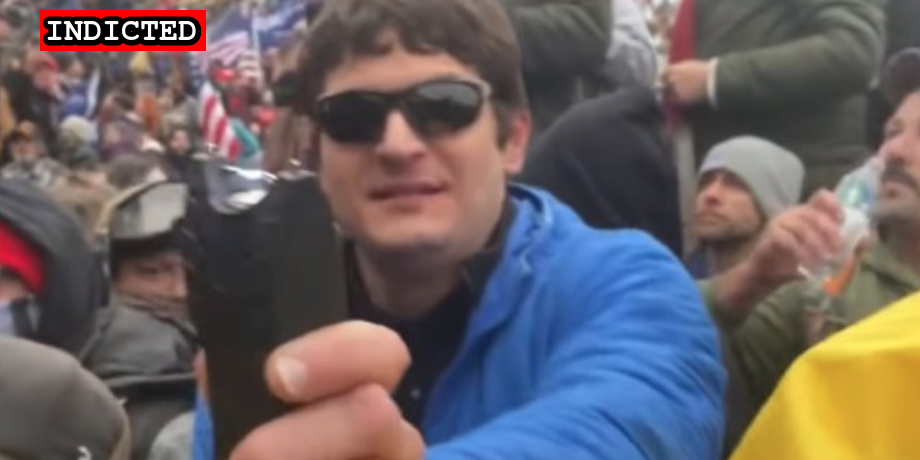
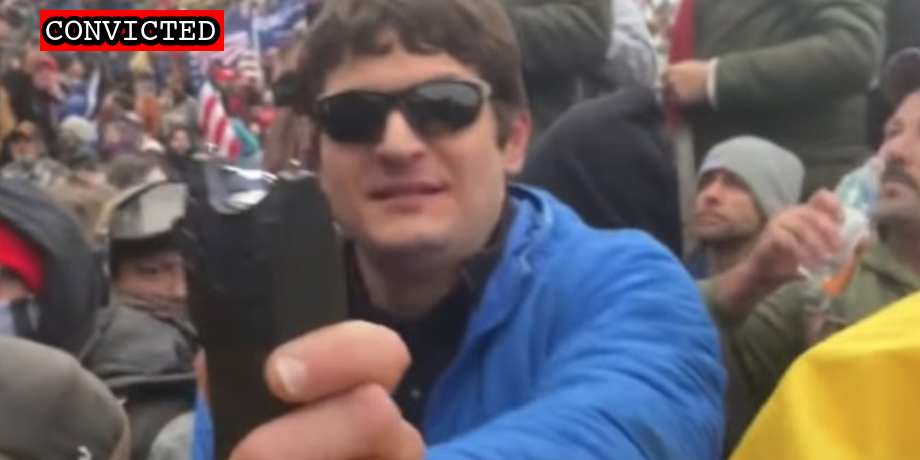
Sentencing and convictions

Changed region(s): [[0.0304, 0.0, 0.2435, 0.1217]]

diff --git a/docs/_suspects/daniel-egtvedt.md b/docs/_suspects/daniel-egtvedt.md
@@ -4,13 +4,13 @@ lastName: Egtvedt
 hashtag: TreasonIsTiring
 aka:
 residence: Maryland
-status: Convicted
+status: Sentenced
 date: 2021-02-09
 charged: 2021-02-09
 indicted: 2021-03-03
 convicted: 2022-12-16
 acquitted:
-sentenced:
+sentenced: 2023-03-16
 dismissed:
 deceased:
 plea_hearing:
@@ -40,45 +40,49 @@ caseNumber: 21-cr-0177
 caseName: USA v. EGTVEDT
 judge: Christopher R. Cooper
 videos:
-- title: Egtvedt - BWC and CCTV of Incident.mp4 (0:08:43)
-  url: https://propublica-data-j6cases-videos.s3.us-east-1.amazonaws.com/487ec340ce2a013960702cde48001122.mp4
-- title: Egtvedt - Interviews.mp4 (0:02:11)
-  url: https://propublica-data-j6cases-videos.s3.us-east-1.amazonaws.com/359f6a10ce2a013960702cde48001122.mp4
-- title: Egtvedt - Capitol Entry.mp4 (0:00:27)
-  url: https://propublica-data-j6cases-videos.s3.us-east-1.amazonaws.com/34772630ce2a013960702cde48001122.mp4
-- title: Egtvedt - Late Afternoon BWC.mp4 (0:01:50)
-  url: https://propublica-data-j6cases-videos.s3.us-east-1.amazonaws.com/3d127cc0ce2a013960702cde48001122.mp4
+  - title: Egtvedt - BWC and CCTV of Incident.mp4 (0:08:43)
+    url: https://propublica-data-j6cases-videos.s3.us-east-1.amazonaws.com/487ec340ce2a013960702cde48001122.mp4
+  - title: Egtvedt - Interviews.mp4 (0:02:11)
+    url: https://propublica-data-j6cases-videos.s3.us-east-1.amazonaws.com/359f6a10ce2a013960702cde48001122.mp4
+  - title: Egtvedt - Capitol Entry.mp4 (0:00:27)
+    url: https://propublica-data-j6cases-videos.s3.us-east-1.amazonaws.com/34772630ce2a013960702cde48001122.mp4
+  - title: Egtvedt - Late Afternoon BWC.mp4 (0:01:50)
+    url: https://propublica-data-j6cases-videos.s3.us-east-1.amazonaws.com/3d127cc0ce2a013960702cde48001122.mp4
 charges:
-- code: 18 USC § 111(a)(1)
-  title: Assaulting, resisting, or impeding certain officers or employees
-  url: https://www.law.cornell.edu/uscode/text/18/111
-  felony: true
-- code: 18 USC § 111(a)(1)
-  title: Assaulting, resisting, or impeding certain officers or employees
-  url: https://www.law.cornell.edu/uscode/text/18/111
-  felony: true
-- code: 18 USC § 231(a)(3)
-  title: Obstruction of Law Enforcement During Civil Disorder
-  url: https://www.law.cornell.edu/uscode/text/18/231
-  felony: true
-- code: 18 USC § 1512(c)(2),2
-  title: Obstruction of an Official Proceeding (Aiding and Abetting)
-  url: https://www.law.cornell.edu/uscode/text/18/1512
-  felony: true
-- code: 18 USC § 1752(a)(1)
-  title: Entering a restricted building or grounds
-  url: https://www.law.cornell.edu/uscode/text/18/1752
-  felony: false
-- code: 18 USC § 1752(a)(2)
-  title: Disorderly and disruptive conduct in a restricted building or grounds
-  url: https://www.law.cornell.edu/uscode/text/18/1752
-  felony: false
-- code: 40 USC § 5104(e)(2)(D)
-  title: Disorderly Conduct in a Capitol Building
-  url: https://www.law.cornell.edu/uscode/text/40/5104
-  felony: false
+  - code: 18 USC § 111(a)(1)
+    title: Assaulting, resisting, or impeding certain officers or employees
+    url: https://www.law.cornell.edu/uscode/text/18/111
+    felony: true
+  - code: 18 USC § 111(a)(1)
+    title: Assaulting, resisting, or impeding certain officers or employees
+    url: https://www.law.cornell.edu/uscode/text/18/111
+    felony: true
+  - code: 18 USC § 231(a)(3)
+    title: Obstruction of Law Enforcement During Civil Disorder
+    url: https://www.law.cornell.edu/uscode/text/18/231
+    felony: true
+  - code: 18 USC § 1512(c)(2),2
+    title: Obstruction of an Official Proceeding (Aiding and Abetting)
+    url: https://www.law.cornell.edu/uscode/text/18/1512
+    felony: true
+  - code: 18 USC § 1752(a)(1)
+    title: Entering a restricted building or grounds
+    url: https://www.law.cornell.edu/uscode/text/18/1752
+    felony: false
+  - code: 18 USC § 1752(a)(2)
+    title: Disorderly and disruptive conduct in a restricted building or grounds
+    url: https://www.law.cornell.edu/uscode/text/18/1752
+    felony: false
+  - code: 40 USC § 5104(e)(2)(D)
+    title: Disorderly Conduct in a Capitol Building
+    url: https://www.law.cornell.edu/uscode/text/40/5104
+    felony: false
 sentence:
+  - 42 months incarceration
+  - 3 years probation
+  - $2000 restitution
 ---
+
 - [News Report](https://www.thedailybeast.com/daniel-egtvedt-rioter-who-boasted-of-gop-ties-was-an-absolute-nightmare-for-capitol-cops-doj-alleges)
 - [Complaint](https://extremism.gwu.edu/sites/g/files/zaxdzs2191/f/Daniel%20Dean%20Egtvedt%20Criminal%20Complaint.pdf)
 - [Statement of Facts](https://www.justice.gov/usao-dc/case-multi-defendant/file/1371351/download)

diff --git a/docs/_suspects/vitali-gossjankowski.md b/docs/_suspects/vitali-gossjankowski.md
@@ -4,11 +4,11 @@ lastName: GossJankowski
 hashtag: TaserGuy
 aka:
 residence: Washington, DC
-status: Indicted
+status: Convicted
 date: 2021-01-14
 charged: 2021-01-14
 indicted: 2021-02-17
-convicted:
+convicted: 2023-03-16
 acquitted:
 sentenced:
 dismissed:
@@ -32,7 +32,7 @@ raid:
 perpwalk:
 quote: "The cops won’t touch me. Lol."
 title: Vitali GossJankowski charged on January 14, 2021
-description: Click for latest case details. Suspects innocent until proven guilty.
+description: Convicted on March 16, 2023. Click for latest case details.
 author: seditiontrack
 layout: suspect
 published: true
@@ -41,8 +41,29 @@ caseName: USA v. GOSSJANKOWSKI
 judge: Paul L. Friedman
 videos:
 charges:
+  - code: 18 USC § 231(a)(3)
+    title: Obstruction of Law Enforcement During Civil Disorder
+    url: https://www.law.cornell.edu/uscode/text/18/231
+    felony: true
+  - code: 18 USC § 1512(c)(2),2
+    title: Obstruction of an Official Proceeding (Aiding and Abetting)
+    url: https://www.law.cornell.edu/uscode/text/18/1512
+    felony: true
+  - code: 18 USC § 1752(a)(1)
+    title: Entering a restricted building or grounds
+    url: https://www.law.cornell.edu/uscode/text/18/1752
+    felony: false
+  - code: 18 USC § 1752(a)(2)
+    title: Disorderly and disruptive conduct in a restricted building or grounds
+    url: https://www.law.cornell.edu/uscode/text/18/1752
+    felony: false
+  - code: 40 USC § 5104(e)(2)(D)
+    title: Disorderly Conduct in a Capitol Building
+    url: https://www.law.cornell.edu/uscode/text/40/5104
+    felony: false
 sentence:
 ---
+
 - [News Report](https://dcist.com/story/21/01/19/gallaudet-student-charged-allegedly-trying-to-storm-us-capitol-with-taser/)
 - [Statement of Facts](https://www.justice.gov/opa/page/file/1356136/download)
 - [Self Incrimination (VIDEO)](https://twitter.com/Cleavon_MD/status/1352302262631088128?s=20)

diff --git a/docs/_suspects/traci-isaacs.md b/docs/_suspects/traci-isaacs.md
@@ -13,7 +13,7 @@ acquitted:
 sentenced:
 dismissed:
 deceased:
-plea_hearing:
+plea_hearing: 2023-04-21
 trial_date:
 trial_type:
 jury_selection:
@@ -43,6 +43,7 @@ videos:
 charges:
 sentence:
 ---
+
 - [News Report](https://www.fox35orlando.com/news/3-more-arrested-in-central-florida-connected-to-capitol-riot-officials-say)
 - [Complaint](https://www.justice.gov/usao-dc/case-multi-defendant/file/1513231/download)
 - [Statement of Facts](https://www.justice.gov/usao-dc/case-multi-defendant/file/1513236/download)

diff --git a/docs/_suspects/zvonimir-jurlina.md b/docs/_suspects/zvonimir-jurlina.md
@@ -43,6 +43,8 @@ videos:
 charges:
 sentence:
 ---
+
 - [News Report](https://www.rawstory.com/capitol-hill-riot/)
 - [Statement of Facts](https://www.justice.gov/opa/case-multi-defendant/file/1407626/download)
 - [Incriminating Evidence (VIDEO)](https://youtu.be/ZrDckH2Td68?t=190)
+- [Information](https://storage.courtlistener.com/recap/gov.uscourts.dcd.253168/gov.uscourts.dcd.253168.39.0_2.pdf)
